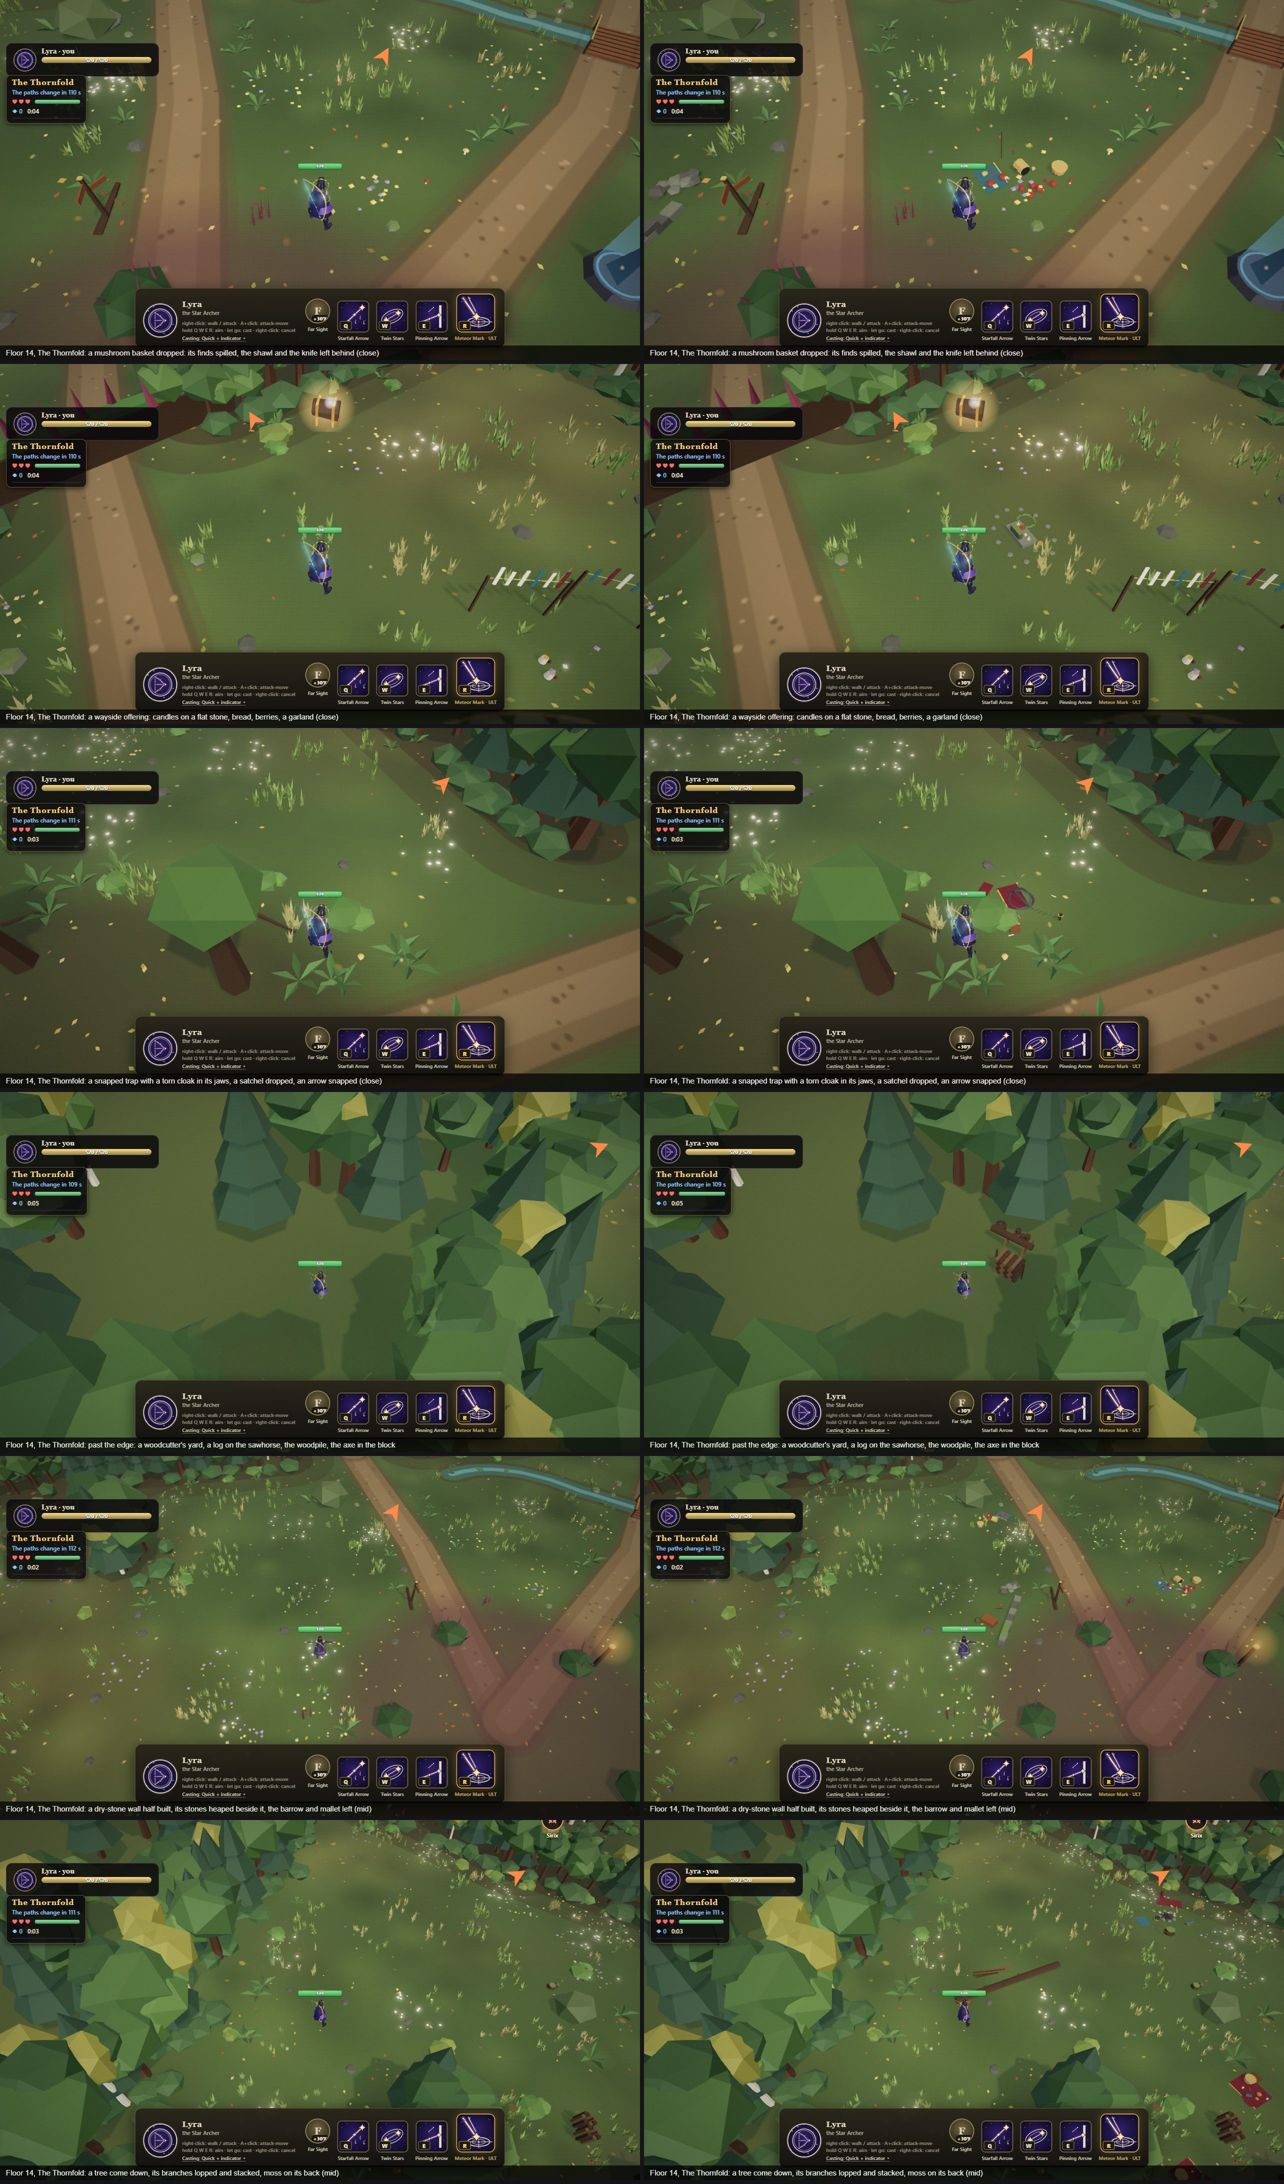
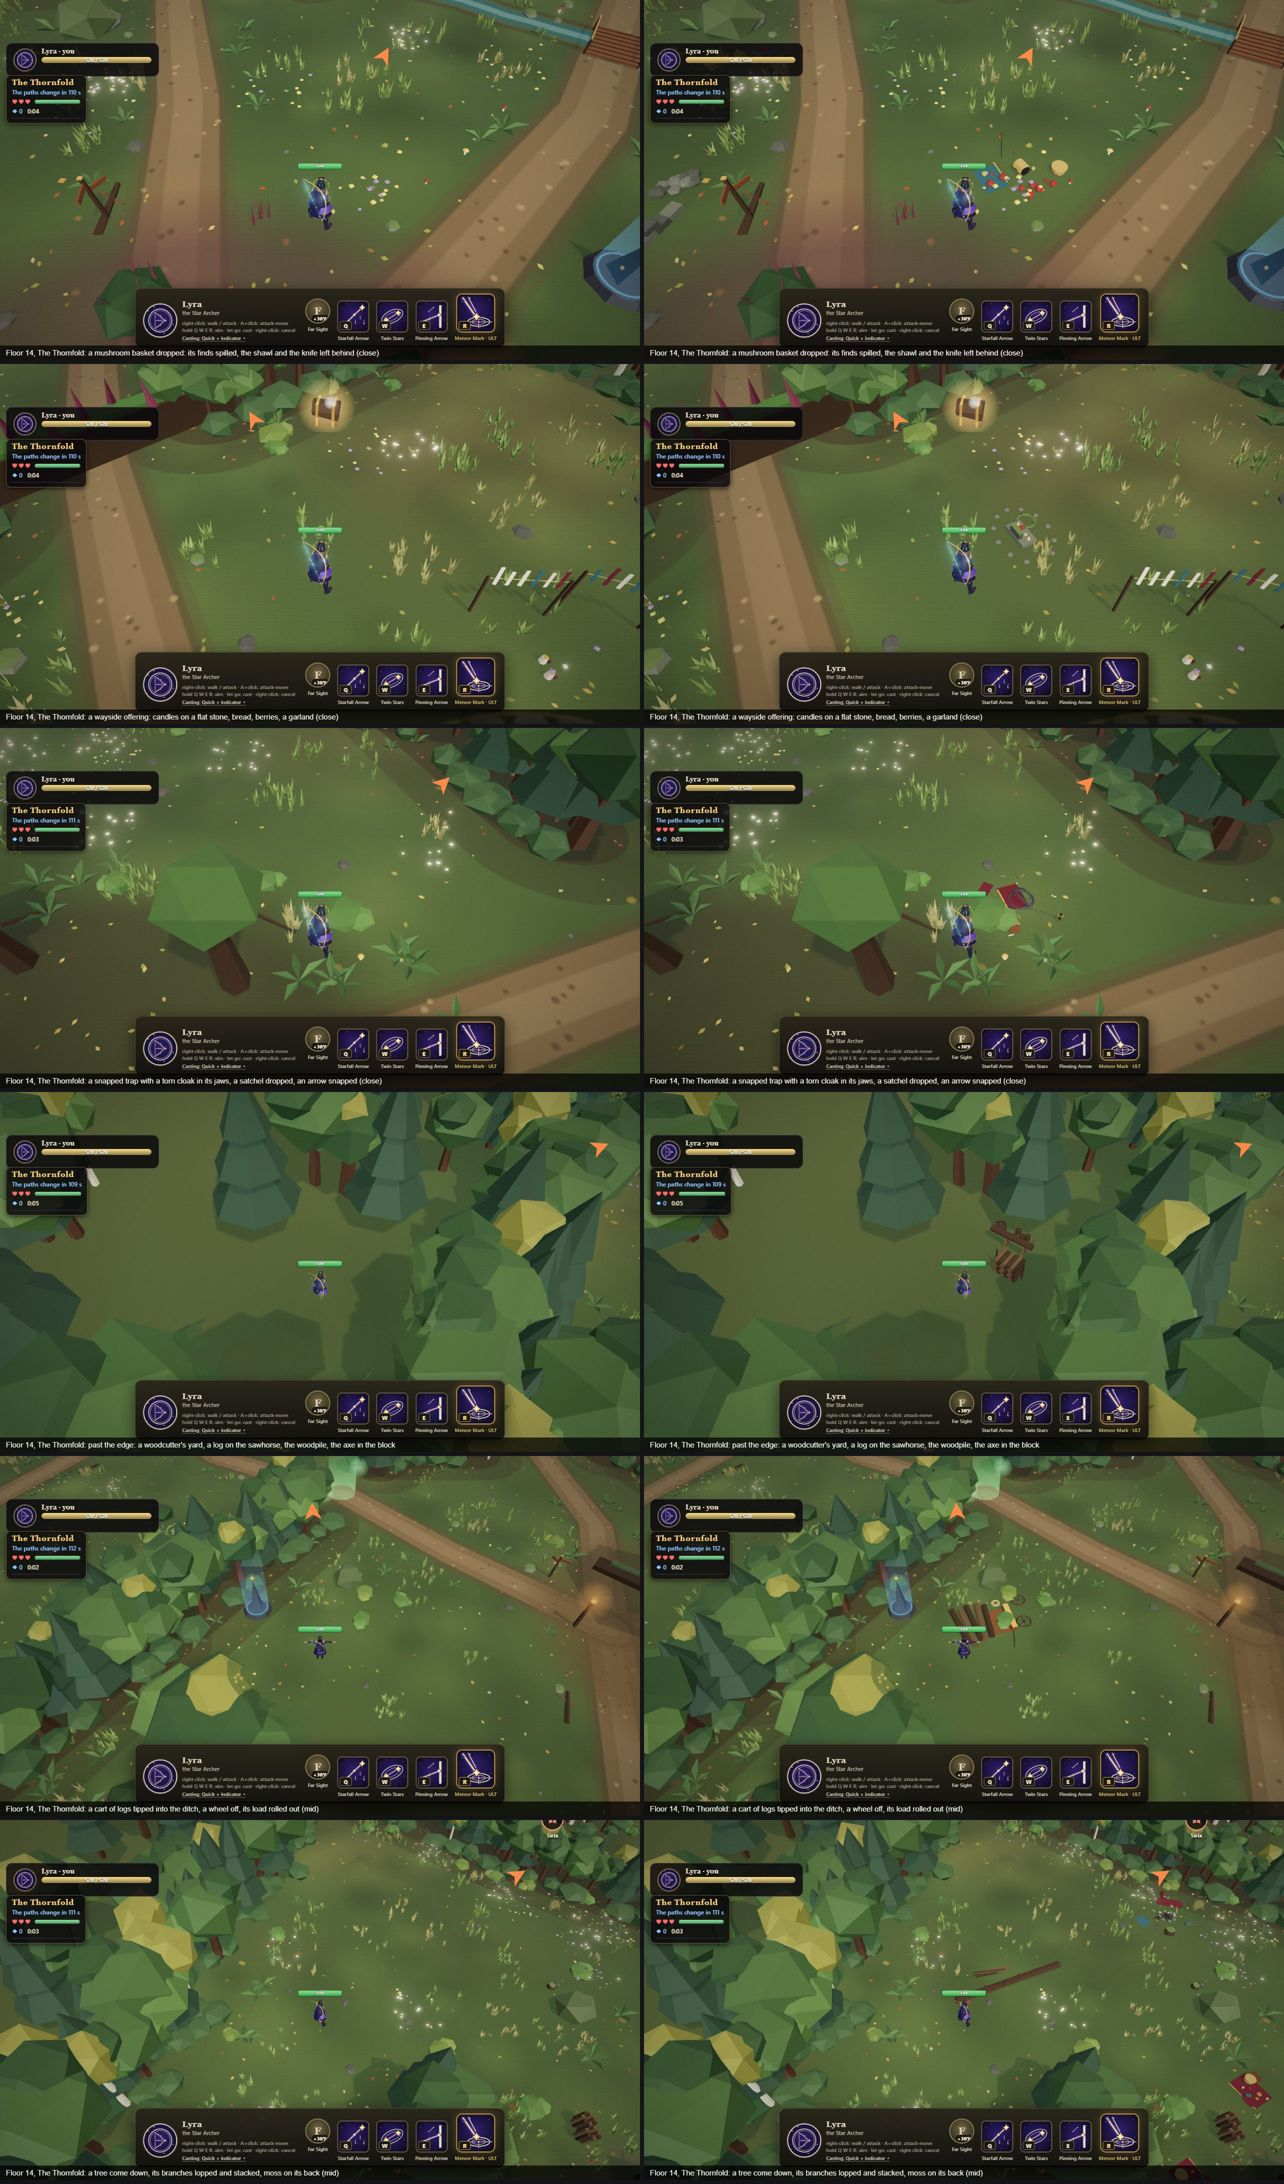
Scenes: the harbour props kept off by their length; the probe samples every part every 0.5 m and checks the brooks; pictures retaken with the larger kinds in the mid views and a lower wide view of floor 11; the salt heap less glaring; headers and counts true

Changed region(s): [[0.0, 0.6538, 1.0, 0.8407], [0.2492, 0.7784, 0.3115, 0.8095]]

diff --git a/pipeline/tools/scenes-probe.js b/pipeline/tools/scenes-probe.js
@@ -4,7 +4,9 @@
 //   - the roads' middles (the painted dirt, 1.75 m each side of the line);
 //   - the cover (its radius; the outline's invisible edge walls are left out: the outline is checked on its own); the Wood's roots
 //     (its law's walls, both ways: 0.3 m);
-//   - the places' stands (their radius); the tidal flats as drawn; the depth's props (their reach) and the harbour file's props (1.2 m);
+//   - the places' stands (their radius); the tidal flats as drawn; the depth's props (their reach), the harbour file's props (half their
+//     length and their radius), the Wood's brooks (0.9 m);
+// Each part's footprint is sampled every 0.5 m (its corners and middle come from the scene's record).
 //   - the walkable outline: a ground scene must be inside it and low (0.55 m, knee height); a beach or sea scene must be past it.
 // Run on the tool or game page (or with pipeline/tools/world-shots.py):
 //   eval(await (await fetch('/pipeline/tools/scenes-probe.js')).text());
@@ -21,7 +23,7 @@
     const K = await import('/src/tower/world/keep.ts');
     const land = await import('/src/tower/world/land.ts');
     const common = await import('/src/arenas/common.ts');
-    const RING = common.RING;
+    const RING = common.RING, HO = (await import('/src/arenas/harbour.ts')).HARBOUR_OBSTACLES;
     const looks = {};
     try { looks[1] = (await import('/src/tower/world/floors/gen/harbour-big.ts')).HARBOUR.look; } catch (e) { /* none */ }
     try { const w = await import('/src/tower/world/floors/woodGrown.ts'); if (w.WOOD_11) looks[11] = w.WOOD_11.look; } catch (e) { /* none */ }
@@ -36,8 +38,8 @@
       const t0 = performance.now();
       const z = def.arena.build();
       const buildMs = Math.round(performance.now() - t0);
-      let scenes = null, marks = [];
-      z.group.traverse((o) => { if (o.userData?.seaScenes) scenes = o.userData.seaScenes; if (o.userData?.woodScenes) scenes = o.userData.woodScenes; if (o.userData?.depthMarks) marks = o.userData.depthMarks; });
+      let scenes = null, marks = [], brooks = [];
+      z.group.traverse((o) => { if (o.userData?.seaScenes) scenes = o.userData.seaScenes; if (o.userData?.woodScenes) scenes = o.userData.woodScenes; if (o.userData?.depthMarks) marks = o.userData.depthMarks; if (o.userData?.depth?.brooks) brooks = o.userData.depth.brooks.flatMap((b) => b.pts ?? []); });
       z.dispose();
       scenes = scenes ?? [];
       const keep = K.floorKeep(def);
@@ -53,14 +55,26 @@
         const where = `${s.kind} at (${s.x.toFixed(1)}, ${s.z.toFixed(1)})`;
         if (!s.beyond && s.top > 0.55) hits.push(`${where}: ${s.top} m tall on the walkable ground`);
         let worst = {};
-        for (const [x, zz] of s.pts) {
+        // each part is its four ground corners and its middle (scenes/*.ts): sample its footprint every 0.5 m, not just the corners
+        const pts = [];
+        for (let i = 0; i + 4 < s.pts.length + 1; i += 5) {
+          const [c0, c1, c2, c3] = s.pts.slice(i, i + 4);
+          const n1 = Math.max(1, Math.ceil(Math.max(Math.hypot(c1[0] - c0[0], c1[1] - c0[1]), Math.hypot(c3[0] - c2[0], c3[1] - c2[1])) / 0.5));
+          const n2 = Math.max(1, Math.ceil(Math.max(Math.hypot(c2[0] - c0[0], c2[1] - c0[1]), Math.hypot(c3[0] - c1[0], c3[1] - c1[1])) / 0.5));
+          for (let a = 0; a <= n1; a++) for (let b = 0; b <= n2; b++) {
+            const u = a / n1, w = b / n2;
+            pts.push([(1 - u) * (1 - w) * c0[0] + u * (1 - w) * c1[0] + (1 - u) * w * c2[0] + u * w * c3[0], (1 - u) * (1 - w) * c0[1] + u * (1 - w) * c1[1] + (1 - u) * w * c2[1] + u * w * c3[1]]);
+          }
+        }
+        for (const [x, zz] of pts) {
+          for (const [bx, bz] of brooks) if (Math.hypot(bx - x, bz - zz) < 0.9) worst.brook = 'in a brook';
           for (const k of keep) { const d = Math.hypot(k.x - x, k.z - zz); if (d < 3) worst.keep = Math.min(worst.keep ?? 9, d); }
           for (const r of roads) { const d = segDist(x, zz, ...r); if (d < 1.75) worst.road = Math.min(worst.road ?? 9, d); }
           for (const c of cover) { const d = segDist(x, zz, c.ax, c.az, c.bx, c.bz) - c.r; if (d < 0) worst.cover = Math.min(worst.cover ?? 9, d); }
           for (const c of walls) { const d = segDist(x, zz, c.ax, c.az, c.bx, c.bz) - c.r; if (d < 0.3) worst.roots = Math.min(worst.roots ?? 9, d); }
           for (const p of places) { const d = Math.hypot(p.x - x, p.z - zz) - p.r; if (d < 0) worst.place = `${p.id} ${d.toFixed(2)}`; }
           for (const m of marks) if (m.r < 25 && Math.hypot(m.x - x, m.z - zz) < m.r) worst.depthProp = `a depth prop ${Math.hypot(m.x - x, m.z - zz).toFixed(2)} from its middle (its reach ${m.r.toFixed(2)})`;
-          for (const pr of look.props ?? []) { const d = Math.hypot(RING.x + pr.dx - x, RING.z + pr.dz - zz); if (d < 1.2) worst.prop = `a harbour prop ${d.toFixed(2)}`; }
+          for (const pr of look.props ?? []) { const o = HO[pr.i], d = Math.hypot(RING.x + pr.dx - x, RING.z + pr.dz - zz), reach = o ? Math.hypot(o.bx - o.ax, o.bz - o.az) / 2 + o.r : 1.2; if (d < reach) worst.prop = `a harbour prop ${d.toFixed(2)} (its reach ${reach.toFixed(2)})`; }
           for (const f of look.flats ?? []) {
             const c = Math.cos(f.rot ?? 0), sn = Math.sin(f.rot ?? 0), dx = x - f.x, dz = zz - f.z, u = dx * c + dz * sn, w = -dx * sn + dz * c, R = f.rx + 2;
             if (!s.beyond && Math.hypot(u / R, w / (R * f.rz / f.rx)) < 1) worst.flat = 'in a tidal flat';

diff --git a/src/tower/world/scenes/sea.ts b/src/tower/world/scenes/sea.ts
@@ -15,8 +15,9 @@ import { WATER, rimAt, type Geo, type Key, type LandSpec } from '../land';
  *
  * Each kind is a list of parts in its own frame, built from geometry made once a floor, placed many times turned, mirrored and with
  * small variations (which baskets, how many fish, how many arrows), by the floor's own random stream (`seeded(SEED + spec.seed)`): the
- * zone's and the depth's streams are untouched, so nothing that was there moves. The parts go into the land's merged dressing (one
- * mesh a 24 m square whatever the colours; gold into the zone's kit): no new draw calls.
+ * zone's and the depth's streams are untouched, so nothing that was there moves. Each placed scene is baked into one geometry a colour
+ * and goes into the land's merged dressing (one mesh a 24 m square whatever the colours); its gold trim is drawn matte (`brass`) there,
+ * not in the zone's polished gold. A few more meshes where a scene lies in a square that had no dressing (10 to 14 on a floor).
  *
  * `?scenes=off` in the address leaves them out (for before-and-after pictures and A/B timing).
  */
@@ -441,7 +442,7 @@ const KINDS: Kind[] = [
       P.p('plank', S.box(0.3, 0.36, 1.0), 0, 0, 0, 0.2).p('gold', S.box(0.32, 0.03, 1.02), 0, 0.34, 0, 0.2);
       P.p('wood', S.ring(0.22, 0.04), -0.3, 0, 0.75, 0.2);
       for (const s of [-0.25, 0.25]) P.p('wood', S.log(0.03, 0.9, 6), 0.05, 0, -0.75 + s * 0.1, 1.77 + s);
-      P.p('cloth', S.k('saltheap', () => new THREE.ConeGeometry(0.6, 0.26, 12).translate(0, 0.13, 0)), 0.7, 0, -0.05, 0, 0, 1.3, 1, 0.9);
+      P.p('rope', S.k('saltheap', () => new THREE.ConeGeometry(0.6, 0.26, 12).translate(0, 0.13, 0)), 0.7, 0, -0.05, 0, 0, 1.3, 1, 0.9);
       P.p('wood', S.log(0.022, 1.7, 5), -0.6, 0, 0.9, 0.6).p('lacquer', S.box(0.05, 0.03, 0.45), -1.3, 0, 1.4, 0.6);
       if (r() < 0.5) basket(S, P, 1.1, 1.0, 0.28);
     },

diff --git a/src/tower/world/zone.ts b/src/tower/world/zone.ts
@@ -229,7 +229,7 @@ export function buildSeaZone(L: SeaLook, keep: { x: number; z: number }[] = []):
 
   const kit = new Kit();
   // The world past the rim: land, a beach, the sea, the town, woods (land.ts). The cover below stands on its ground.
-  const land = buildLand({ rim: rimOf(L), paths: L.paths, places: L.places, flats: L.flats, mirror: L.mirror, seed: L.seed, ruin: L.ruin, cover: L.pieces.map((p) => p.o), sceneCover: L.pieces.filter((p) => p.look !== 'edge').map((p) => p.o), sceneTaken: (L.props ?? []).map((p) => ({ x: RING.x + p.dx, z: RING.z + p.dz, r: 2.2 })), keep }, kit, g, own);
+  const land = buildLand({ rim: rimOf(L), paths: L.paths, places: L.places, flats: L.flats, mirror: L.mirror, seed: L.seed, ruin: L.ruin, cover: L.pieces.map((p) => p.o), sceneCover: L.pieces.filter((p) => p.look !== 'edge').map((p) => p.o), sceneTaken: (L.props ?? []).map((p) => { const o = HARBOUR_OBSTACLES[p.i]; return { x: RING.x + p.dx, z: RING.z + p.dz, r: (o ? Math.hypot(o.bx - o.ax, o.bz - o.az) / 2 + o.r : 1.5) + 0.6 }; }), keep }, kit, g, own);
   const box = (w: number, h: number, d: number) => new THREE.BoxGeometry(w, h, d).translate(0, h / 2, 0);
   const cyl = (r0: number, r1: number, h: number, n = 8) => new THREE.CylinderGeometry(r0, r1, h, n).translate(0, h / 2, 0);
   const rnd = seeded(913);

diff --git a/src/tower/world/scenes/wood.ts b/src/tower/world/scenes/wood.ts
@@ -18,8 +18,9 @@ import { rimAt } from '../land';
  * stories (a hive knocked over, not a hive).
  *
  * Each kind is a list of parts in its own frame from shapes made once a floor, placed turned, mirrored and varied by the floor's own
- * random stream (`seeded(SEED + look.seed)`): the zone's and the depth's streams are untouched, so nothing that was there moves. The parts
- * go into the zone's merged props (woodZone.ts `Props`: one mesh a square of ground whatever the colours; gold its own).
+ * random stream (`seeded(SEED + look.seed)`): the zone's and the depth's streams are untouched, so nothing that was there moves. Each
+ * placed scene is baked into one geometry a colour and goes into the zone's merged props (woodZone.ts `Props`: one mesh a square of
+ * ground whatever the colours); its gold trim is drawn matte (brass) there, not in the zone's polished gold.
  *
  * `?scenes=off` in the address leaves them out (for before-and-after pictures and A/B timing).
  */

diff --git a/docs/tower/climb50/sea/scenes/README.md b/docs/tower/climb50/sea/scenes/README.md
@@ -52,18 +52,20 @@ that this would lift over the knee is drawn flatter. Gold trim is drawn matte (b
 
 Every part keeps 3 m off the floor's spots (`floorKeep`: start, camp, lore, people, packs and patrols, waystones, caches, doors, quest
 steps), 2 m off the roads' middles, off the cover, the places' stands, the tidal flats as drawn, the depth's props, and the land's
-houses, jetties, boats, trees and the harbour file's props.
+houses, jetties, boats, trees and the harbour file's props (each by half its length and its radius).
 
 ## Numbers
 
-Scenes a floor (from the probe): 1: 26, 2: 22, 3: 22, 4: 25, 5: 23, 6: 27, 7: 24, 8: 20, 9: 24, 10: 25 (1 to 4 of them past the
-edge). Over the ten floors: pots 23, barrels 22, anchor 22, memorial 20, stall 20, flotsam 18, fight 18, fire 17, nets 17, washing
-15, cart 12, mooring 11, capsized 10, smugglers 9, rowboat 3, barrow 2, potstack 2, netframe 1. No kind is missing.
+Scenes a floor (from the probe): 1: 26, 2: 22, 3: 22, 4: 25, 5: 22, 6: 27, 7: 24, 8: 20, 9: 23, 10: 27 (1 to 4 of them past the
+edge). Over the ten floors: memorial 22, barrels 22, stall 21, pots 21, anchor 19, flotsam 19, fire 17, nets 17, washing 15, fight
+15, cart 12, mooring 11, capsized 10, smugglers 9, rowboat 4, barrow 2, potstack 1, netframe 1. The tall beach kinds are rare: the
+dry sand past the edge is 1.5 to 4 m wide. No kind is missing.
 
 ## Checks
 
 - **Overlap probe** (`pipeline/tools/scenes-probe.js`, run on the page: `await _scenesProbe([1, 2, ..., 10])`): builds each floor's zone
-  as the game does and checks every placed part's real corners against the floor's own data. Zero hits on all ten floors.
+  as the game does and checks every placed part's footprint, sampled every 0.5 m, against the floor's own data. Zero hits on all ten
+  floors.
 - **`_worldCheck`**, floors 1 to 10: nothing unreachable, 34,825 to 35,004 m2 reachable, most units near a spot 5, as before (it reads
   only the floor's data, which this pass does not touch).
 - **`npx tsc --noEmit -p .`** clean, **`npm run build`** passes.

diff --git a/docs/tower/climb50/wood/scenes/README.md b/docs/tower/climb50/wood/scenes/README.md
@@ -53,8 +53,8 @@ logcart 17, fallen 15, hunters 14, yard 9. No kind is missing.
 
 ## Checks
 
-- **Overlap probe** (`pipeline/tools/scenes-probe.js`, `await _scenesProbe([11, ..., 20])`): every placed part's real corners against
-  the floor's spots (3 m), the trails' middles, the cover, the roots' walls of both states (0.3 m), the places, the outline (ground
+- **Overlap probe** (`pipeline/tools/scenes-probe.js`, `await _scenesProbe([11, ..., 20])`): every placed part's footprint, sampled
+  every 0.5 m, against the brooks (0.9 m), the floor's spots (3 m), the trails' middles, the cover, the roots' walls of both states (0.3 m), the places, the outline (ground
   scenes inside and low, the yard outside) and the depth's solid props. Zero hits on all ten floors.
 - **`_worldCheck`**, floors 11 to 20, both states of the roots: nothing unreachable, 31,487 to 32,043 m2 reachable, most units near a
   spot 4 or 5, as before (it reads only the floor's data, which this pass does not touch).
